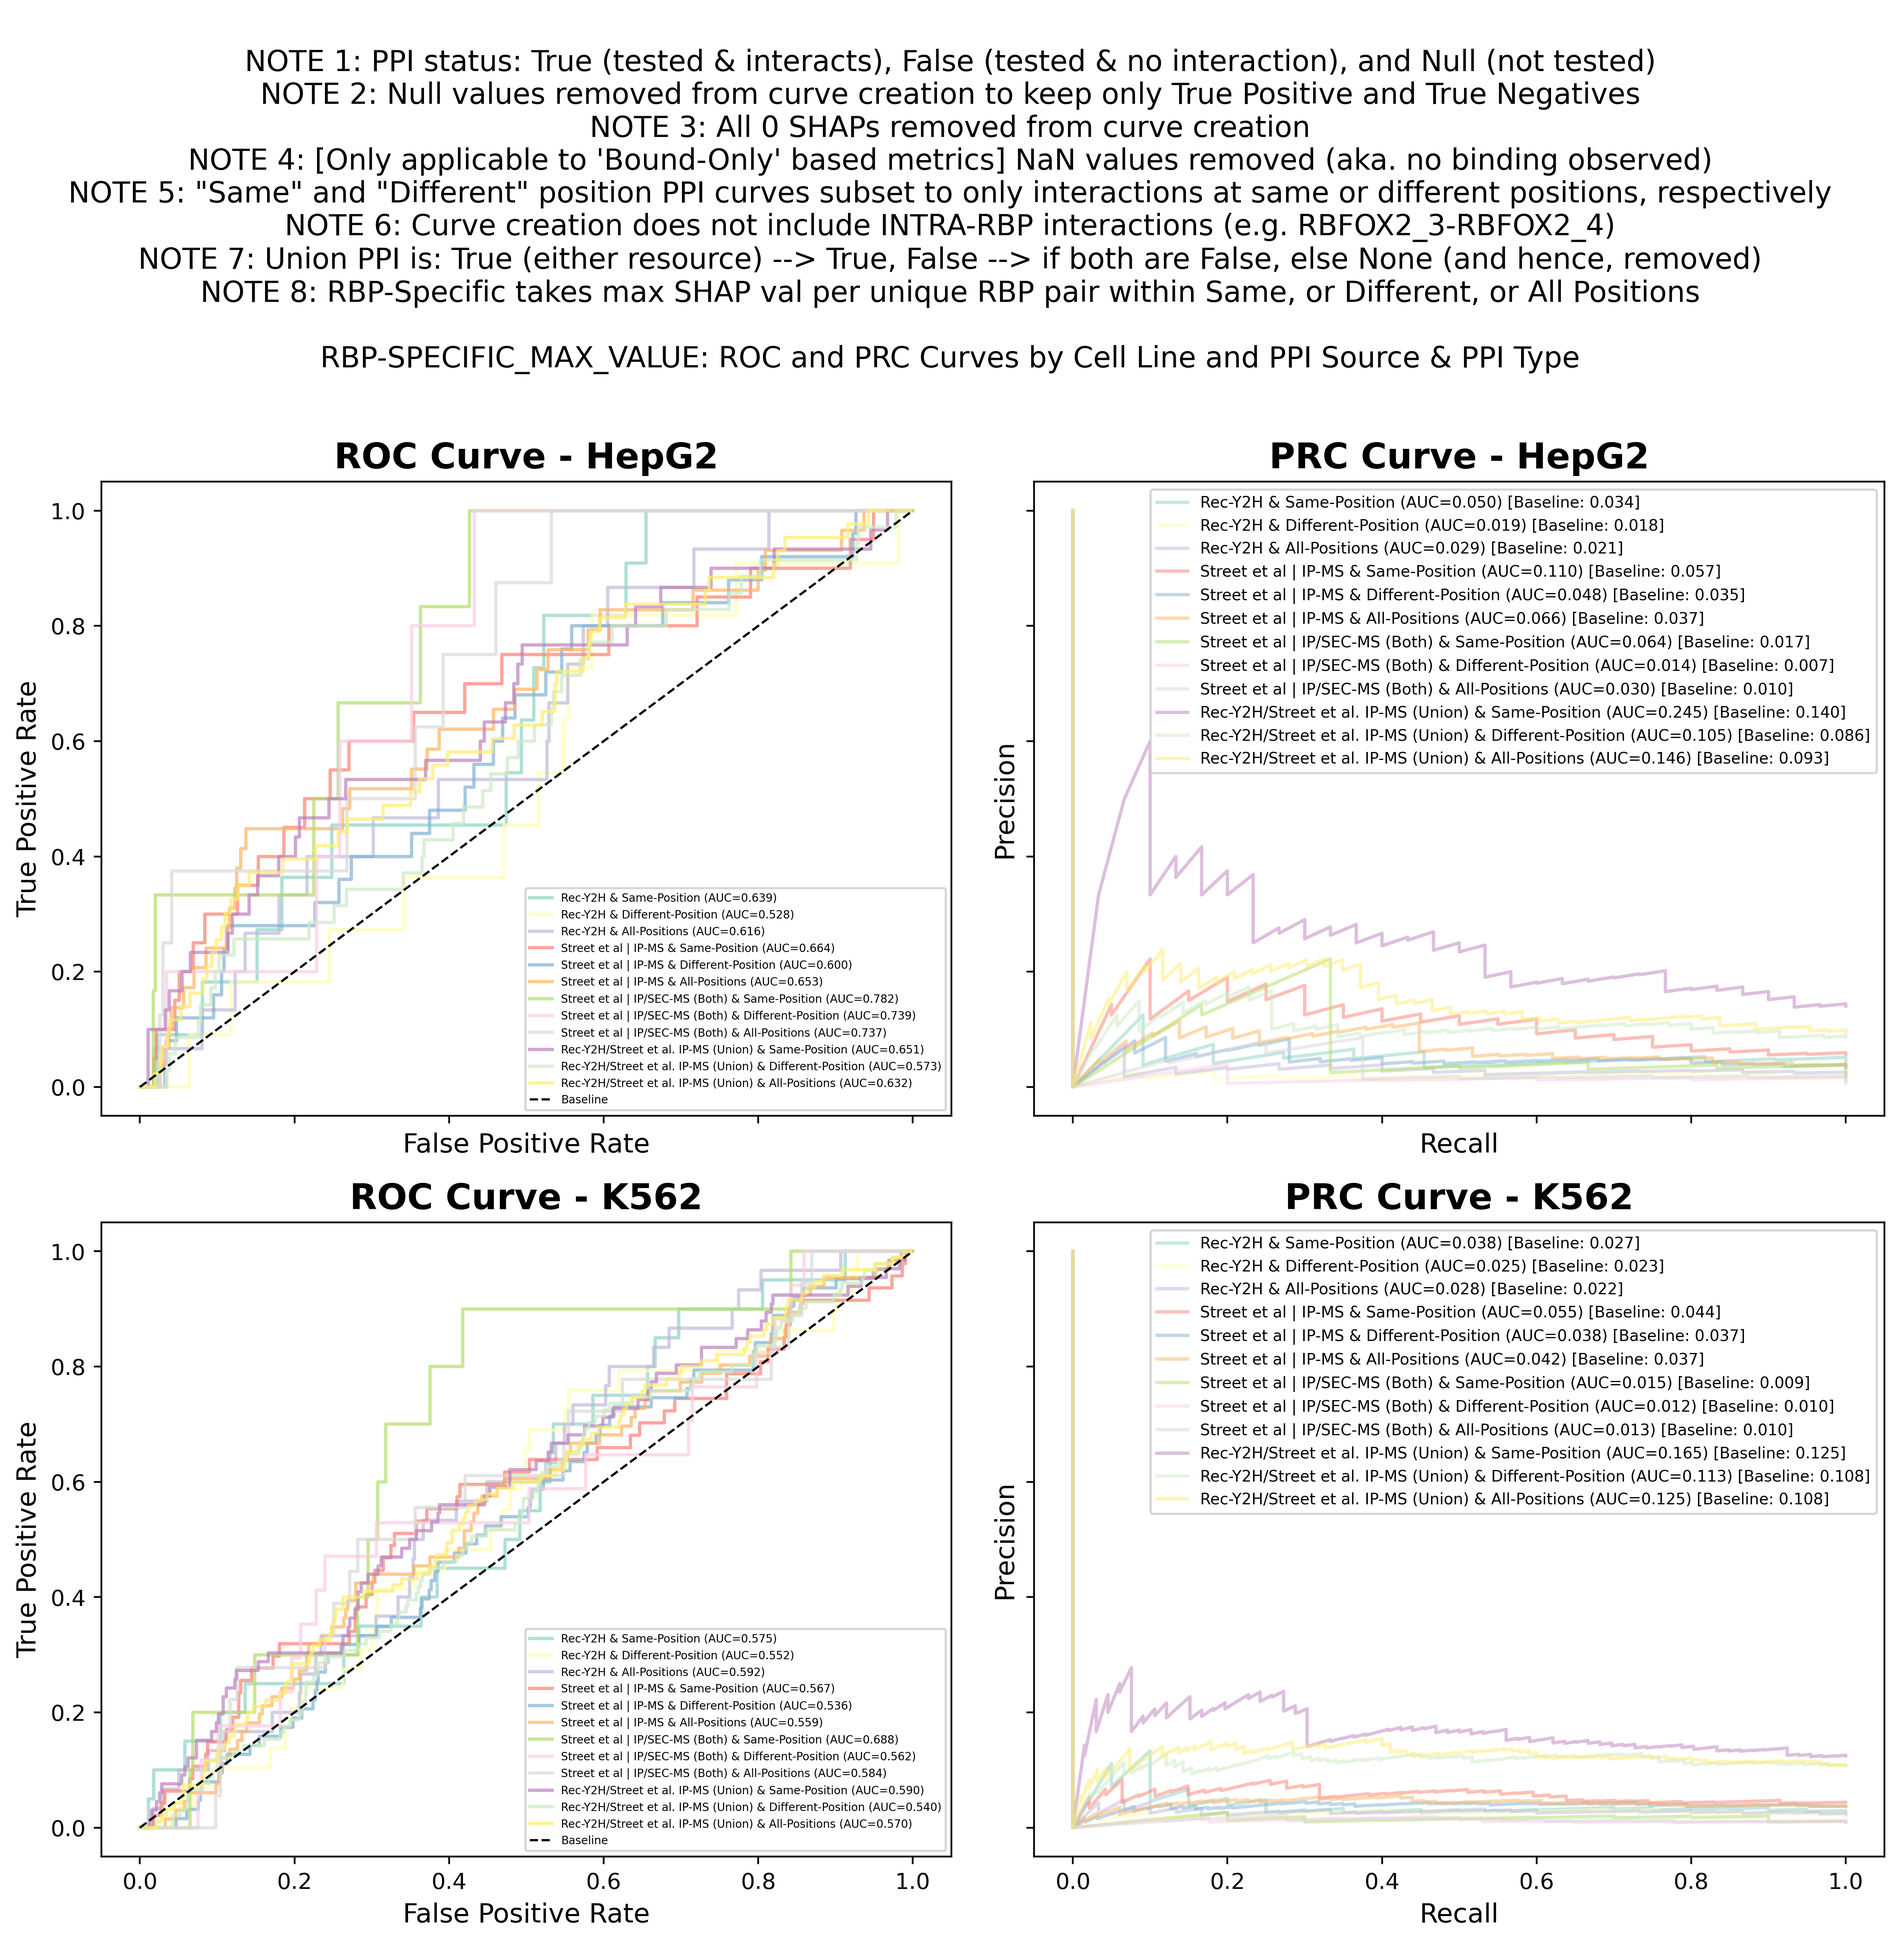
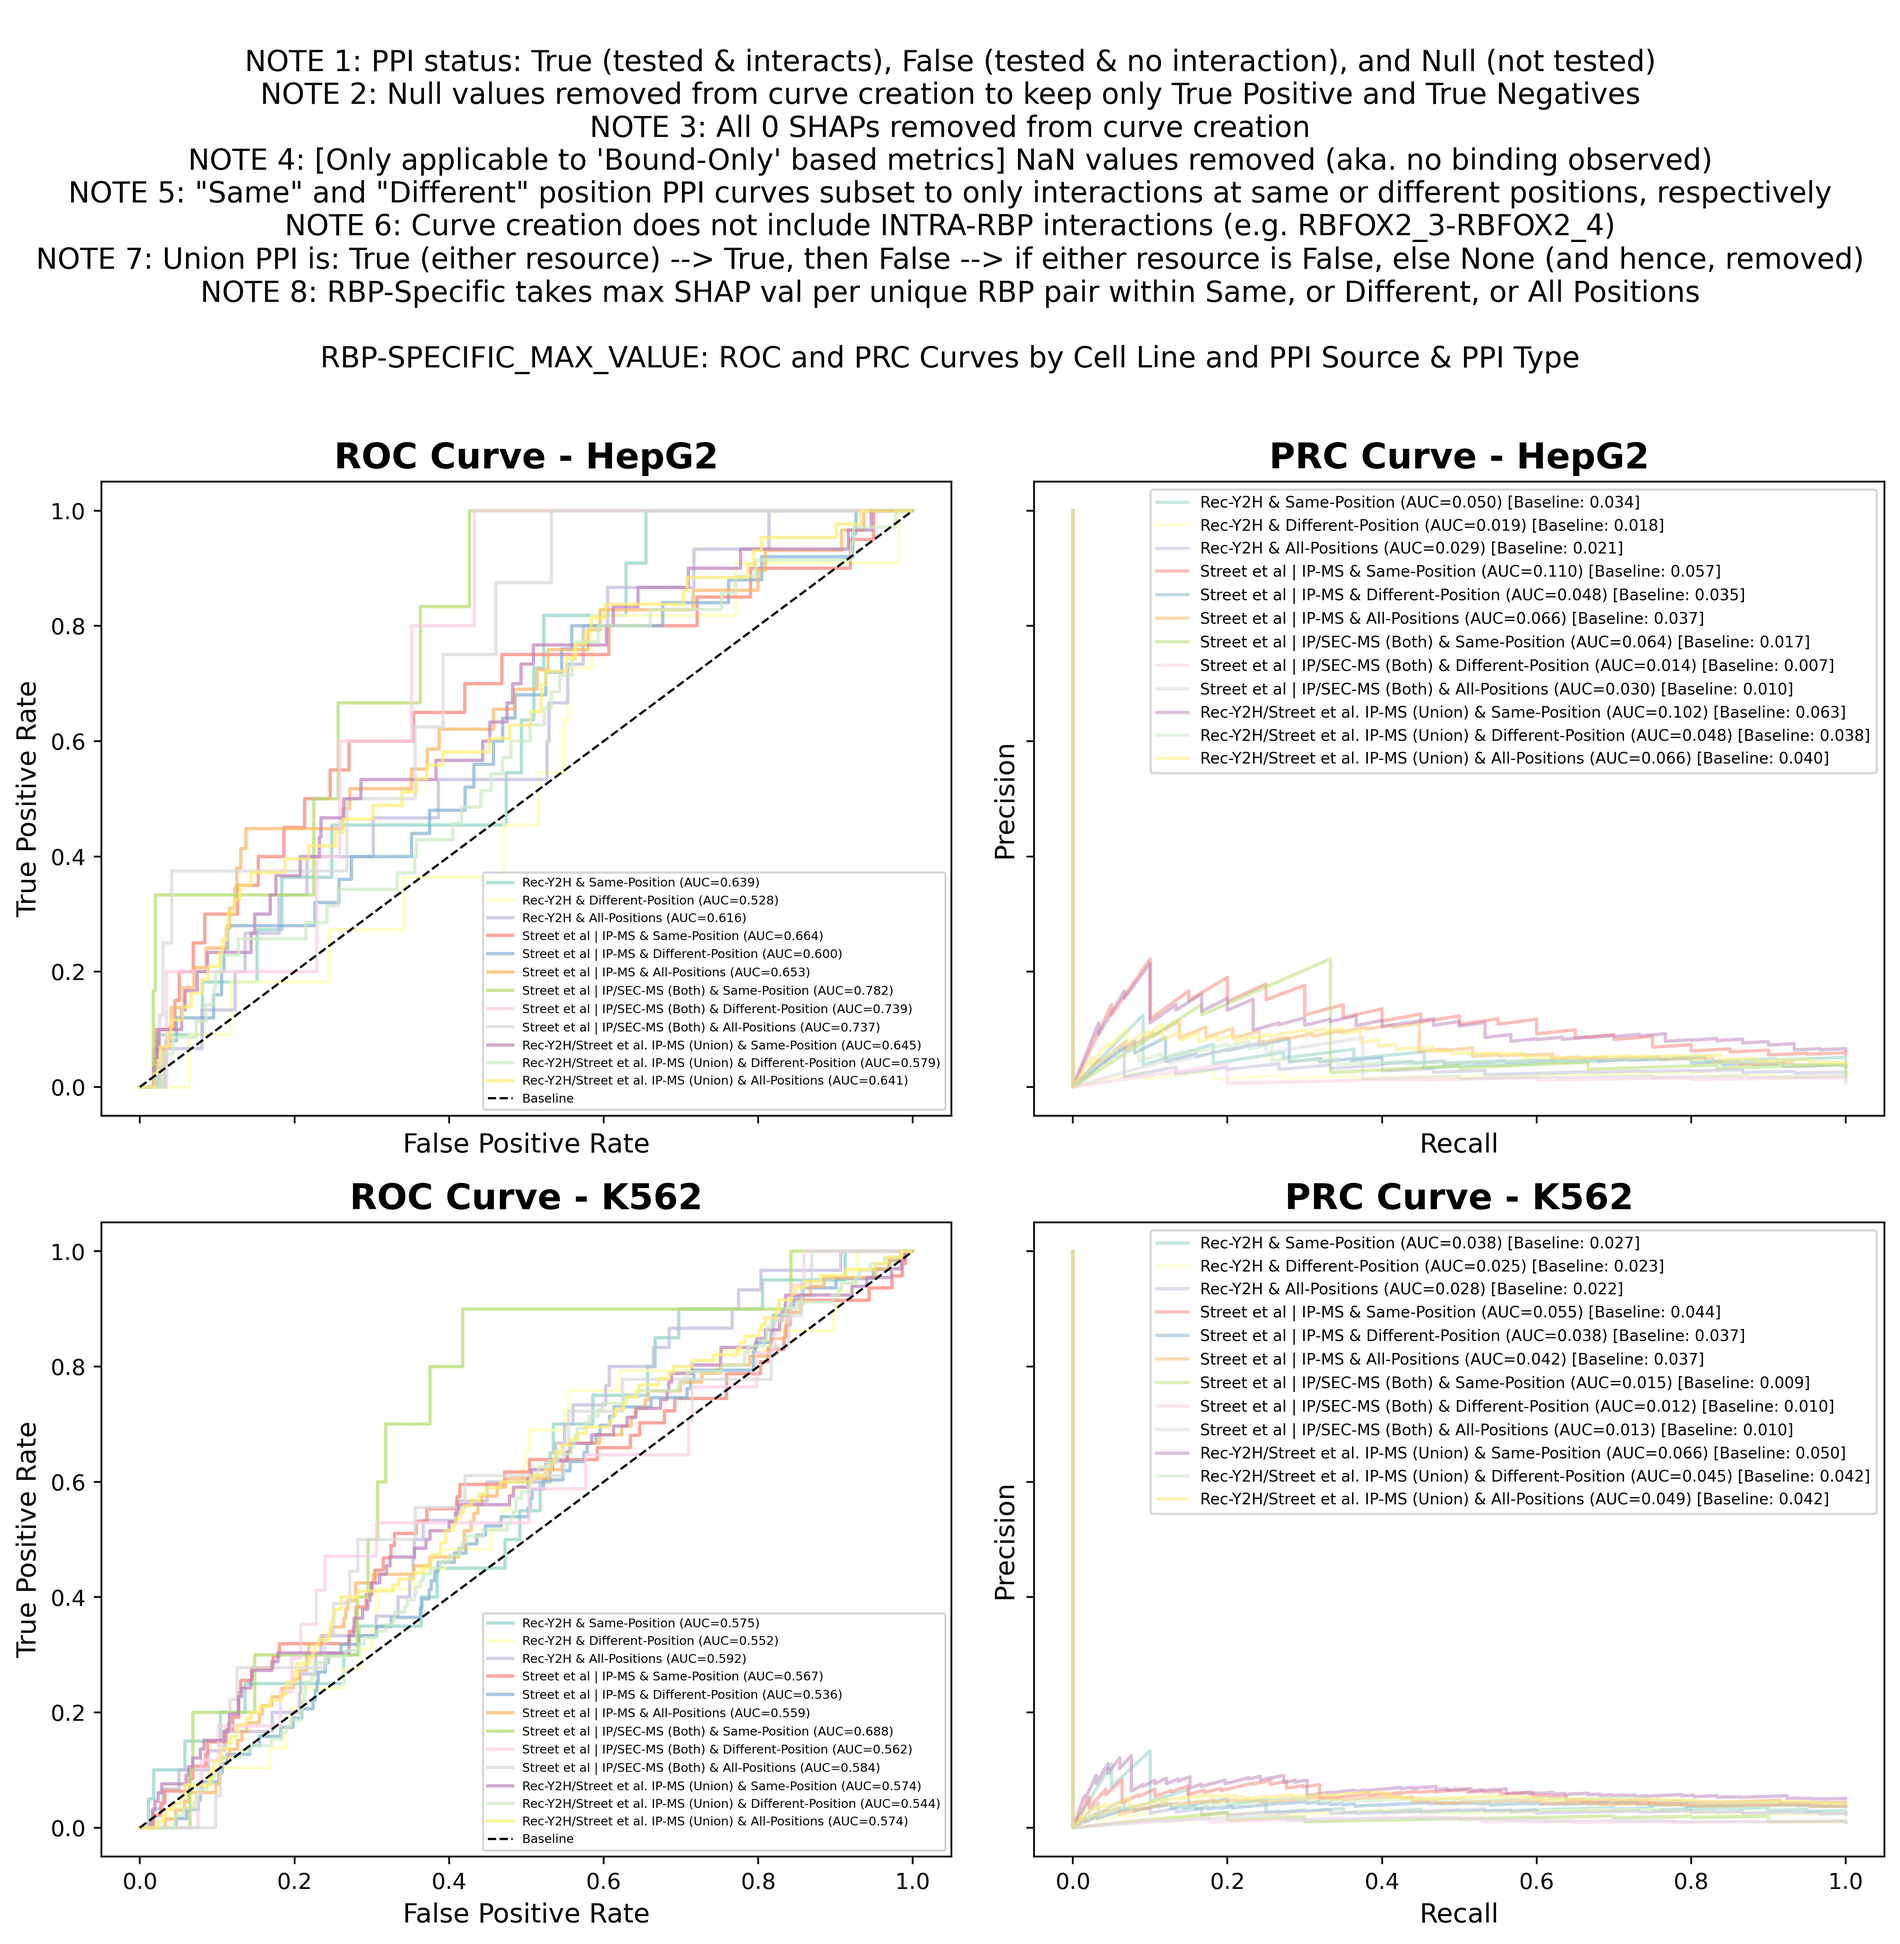
IMPORTANT change to roc and prc curves: for "Union" PPI Source, consider it False if either False which means null now is ONLY when both are null

diff --git a/analysis/07_second_order_SHAP_analysis/2_analyze_shap_interaction_values/code/2_second_order_shap_analysis.py b/analysis/07_second_order_SHAP_analysis/2_analyze_shap_interaction_values/code/2_second_order_shap_analysis.py
@@ -1321,7 +1321,6 @@ class SecondOrderShapNetworkAnalyzer:
         # )
 
         # table = self.add_ppi_stats_to_long_df(df = table)
-        # logger.warning("REMINDER: All values that are not 'Same Position' or 'Different Position' for 'PPI Type' are treated as 'False'!")
 
         #TODO remove later 
         # table.write_csv("./tmp.tsv", separator="\t")
@@ -1336,8 +1335,8 @@ class SecondOrderShapNetworkAnalyzer:
                 union_col_values.append(rec_val)
             elif ip_val.endswith("-Position"):
                 union_col_values.append(ip_val)
-            # If both are "False"
-            elif rec_val == "False" and ip_val == "False":
+            # If either column is "False", take "False"
+            elif rec_val == "False" or ip_val == "False":
                 union_col_values.append("False")
             # All other cases
             else:
@@ -1354,7 +1353,6 @@ class SecondOrderShapNetworkAnalyzer:
         curve_types = ["roc", "prc"]
         
         sns.set_palette("Set3")
-
 
         summary= []
         for plot_type in ["FEATURE-SPECIFIC", "RBP-SPECIFIC_MAX_VALUE"]:
@@ -1486,7 +1484,7 @@ class SecondOrderShapNetworkAnalyzer:
                     if curve_type == "prc":
                         legend_fontsize = 7
                     elif curve_type == "roc":
-                        legend_fontsize = 5
+                        legend_fontsize = 5.5
 
                     ax.legend(loc="best", fontsize=legend_fontsize, frameon=True)
             
@@ -1502,7 +1500,7 @@ class SecondOrderShapNetworkAnalyzer:
                 "\nNOTE 4: [Only applicable to 'Bound-Only' based metrics] NaN values removed (aka. no binding observed)" +
                 '\nNOTE 5: "Same" and "Different" position PPI curves subset to only interactions at same or different positions, respectively' +
                 "\nNOTE 6: Curve creation does not include INTRA-RBP interactions (e.g. RBFOX2_3-RBFOX2_4)" +
-                "\nNOTE 7: Union PPI is: True (either resource) --> True, False --> if both are False, else None (and hence, removed)" +
+                "\nNOTE 7: Union PPI is: True (either resource) --> True, then False --> if either resource is False, else None (and hence, removed)" +
                 note +
                 f"\n\n{plot_type}: ROC and PRC Curves by Cell Line and PPI Source & PPI Type", 
                 fontsize=13, y=1.01
